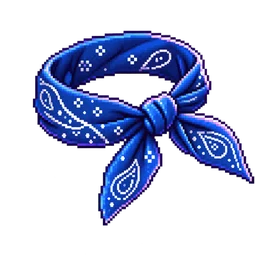
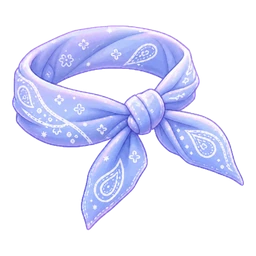
남은 선물 아이콘 셋 — 사진집·반다나·컵라면
이걸로 스물여섯 장이 다 같은 결이 됐다. 진남색 사진집과 빨간 컵라면이
새 것들 사이에서 혼자 튀고 있었다.

사진집과 컵라면은 투명도가 없이 와서 바둑판 배경이 그림에 박혀 있었다.
가장자리에서 흘려보내 지우고, 그림에 둘러싸여 가장자리와 안 이어진 자리는
「29px 옆이 반대 톤」인지로 따로 걸렀다 — 바둑판 칸이 29px이라 그림의
흰 붓질은 이 조건에 안 걸린다. 반다나는 투명한 원화를 다시 받아 그대로 썼다.

판 번호를 126으로 올린다. 125로 나간 아이콘을 이미 받아둔 브라우저가 있어서,
번호를 그대로 두면 이 셋만 옛 그림으로 남는다.

Claude-Session: https://claude.ai/code/session_01Abubm1X1ct2srazJBiqqff

diff --git a/index.html b/index.html
@@ -16,7 +16,7 @@
 <script src="https://unpkg.com/react-dom@18/umd/react-dom.production.min.js"></script>
 <script src="https://unpkg.com/@babel/standalone@7/babel.min.js"></script>
 <!-- 데모 대사·매칭. 문구집에서 만들어진 파일이라 직접 고치지 않는다 -->
-<script src="demo-lines.js?v=125"></script>
+<script src="demo-lines.js?v=126"></script>
 <script>
 /* 리스타트의 뒷정리.
    지우고 바로 다시 여는 방식은 안 됐다 — 다시 열리기 전 몇 밀리초 사이에
@@ -65,16 +65,16 @@ try{
      고치고 올릴 때 네 개를 같이 올린다. 하나만 올리면 그 하나만 새것이 된다.
      ★ 이 넷 중 하나라도 고쳤으면 번호를 올린다. 안 올리면 배포는 됐는데
        사람은 안 고쳐졌다고 한다 — 두 번 겪었다. -->
-<link rel="stylesheet" href="null.css?v=125">
+<link rel="stylesheet" href="null.css?v=126">
 </head>
 <body>
 <div id="root"></div>
 <!-- 데이터·규칙. JSX가 없어서 바벨을 안 탄다 -->
-<script src="app-data.js?v=125"></script>
+<script src="app-data.js?v=126"></script>
 <!-- 화면 조각 — 아이콘·창·방 목록. JSX라 바벨을 탄다 -->
-<script type="text/babel" src="app-ui.js?v=125"></script>
+<script type="text/babel" src="app-ui.js?v=126"></script>
 <!-- 앱 — 상태를 들고 있는 곳 -->
-<script type="text/babel" src="app.js?v=125"></script>
+<script type="text/babel" src="app.js?v=126"></script>
 <template id="__bundler_thumbnail"><svg xmlns="http://www.w3.org/2000/svg" viewBox="0 0 100 100"><rect width="100" height="100" fill="#b8a5e3"/><text x="50" y="58" text-anchor="middle" font-family="monospace" font-size="26" letter-spacing="4" fill="#fff">NULL</text></svg></template>
 </body>
 </html>

diff --git a/app-data.js b/app-data.js
@@ -377,7 +377,7 @@ const roomOf = id => ROOMS.find(r=>r.id===id);
    화면에는 옛 사물함이 그대로 떴다 — 브라우저가 같은 이름의 옛 파일을 계속
    쓴 것이다. index.html이 갈라진 파일에 붙이는 ?v= 와 같은 번호를 그림에도
    붙인다. 번호가 갈리면 시험이 잡는다. */
-const AV="?v=125";
+const AV="?v=126";
 const av=s=>s?s+AV:s;
 
 /* 사진: 백엔드가 보내는 key ↔ 실제 파일(key.webp). 목록에 없는 key는 무시한다. */

diff --git a/app/lib/rules.ts b/app/lib/rules.ts
@@ -386,7 +386,7 @@ const roomOf = id => ROOMS.find(r=>r.id===id);
    화면에는 옛 사물함이 그대로 떴다 — 브라우저가 같은 이름의 옛 파일을 계속
    쓴 것이다. index.html이 갈라진 파일에 붙이는 ?v= 와 같은 번호를 그림에도
    붙인다. 번호가 갈리면 시험이 잡는다. */
-const AV="?v=125";
+const AV="?v=126";
 const av=s=>s?s+AV:s;
 
 /* 사진: 백엔드가 보내는 key ↔ 실제 파일(key.webp). 목록에 없는 key는 무시한다. */
